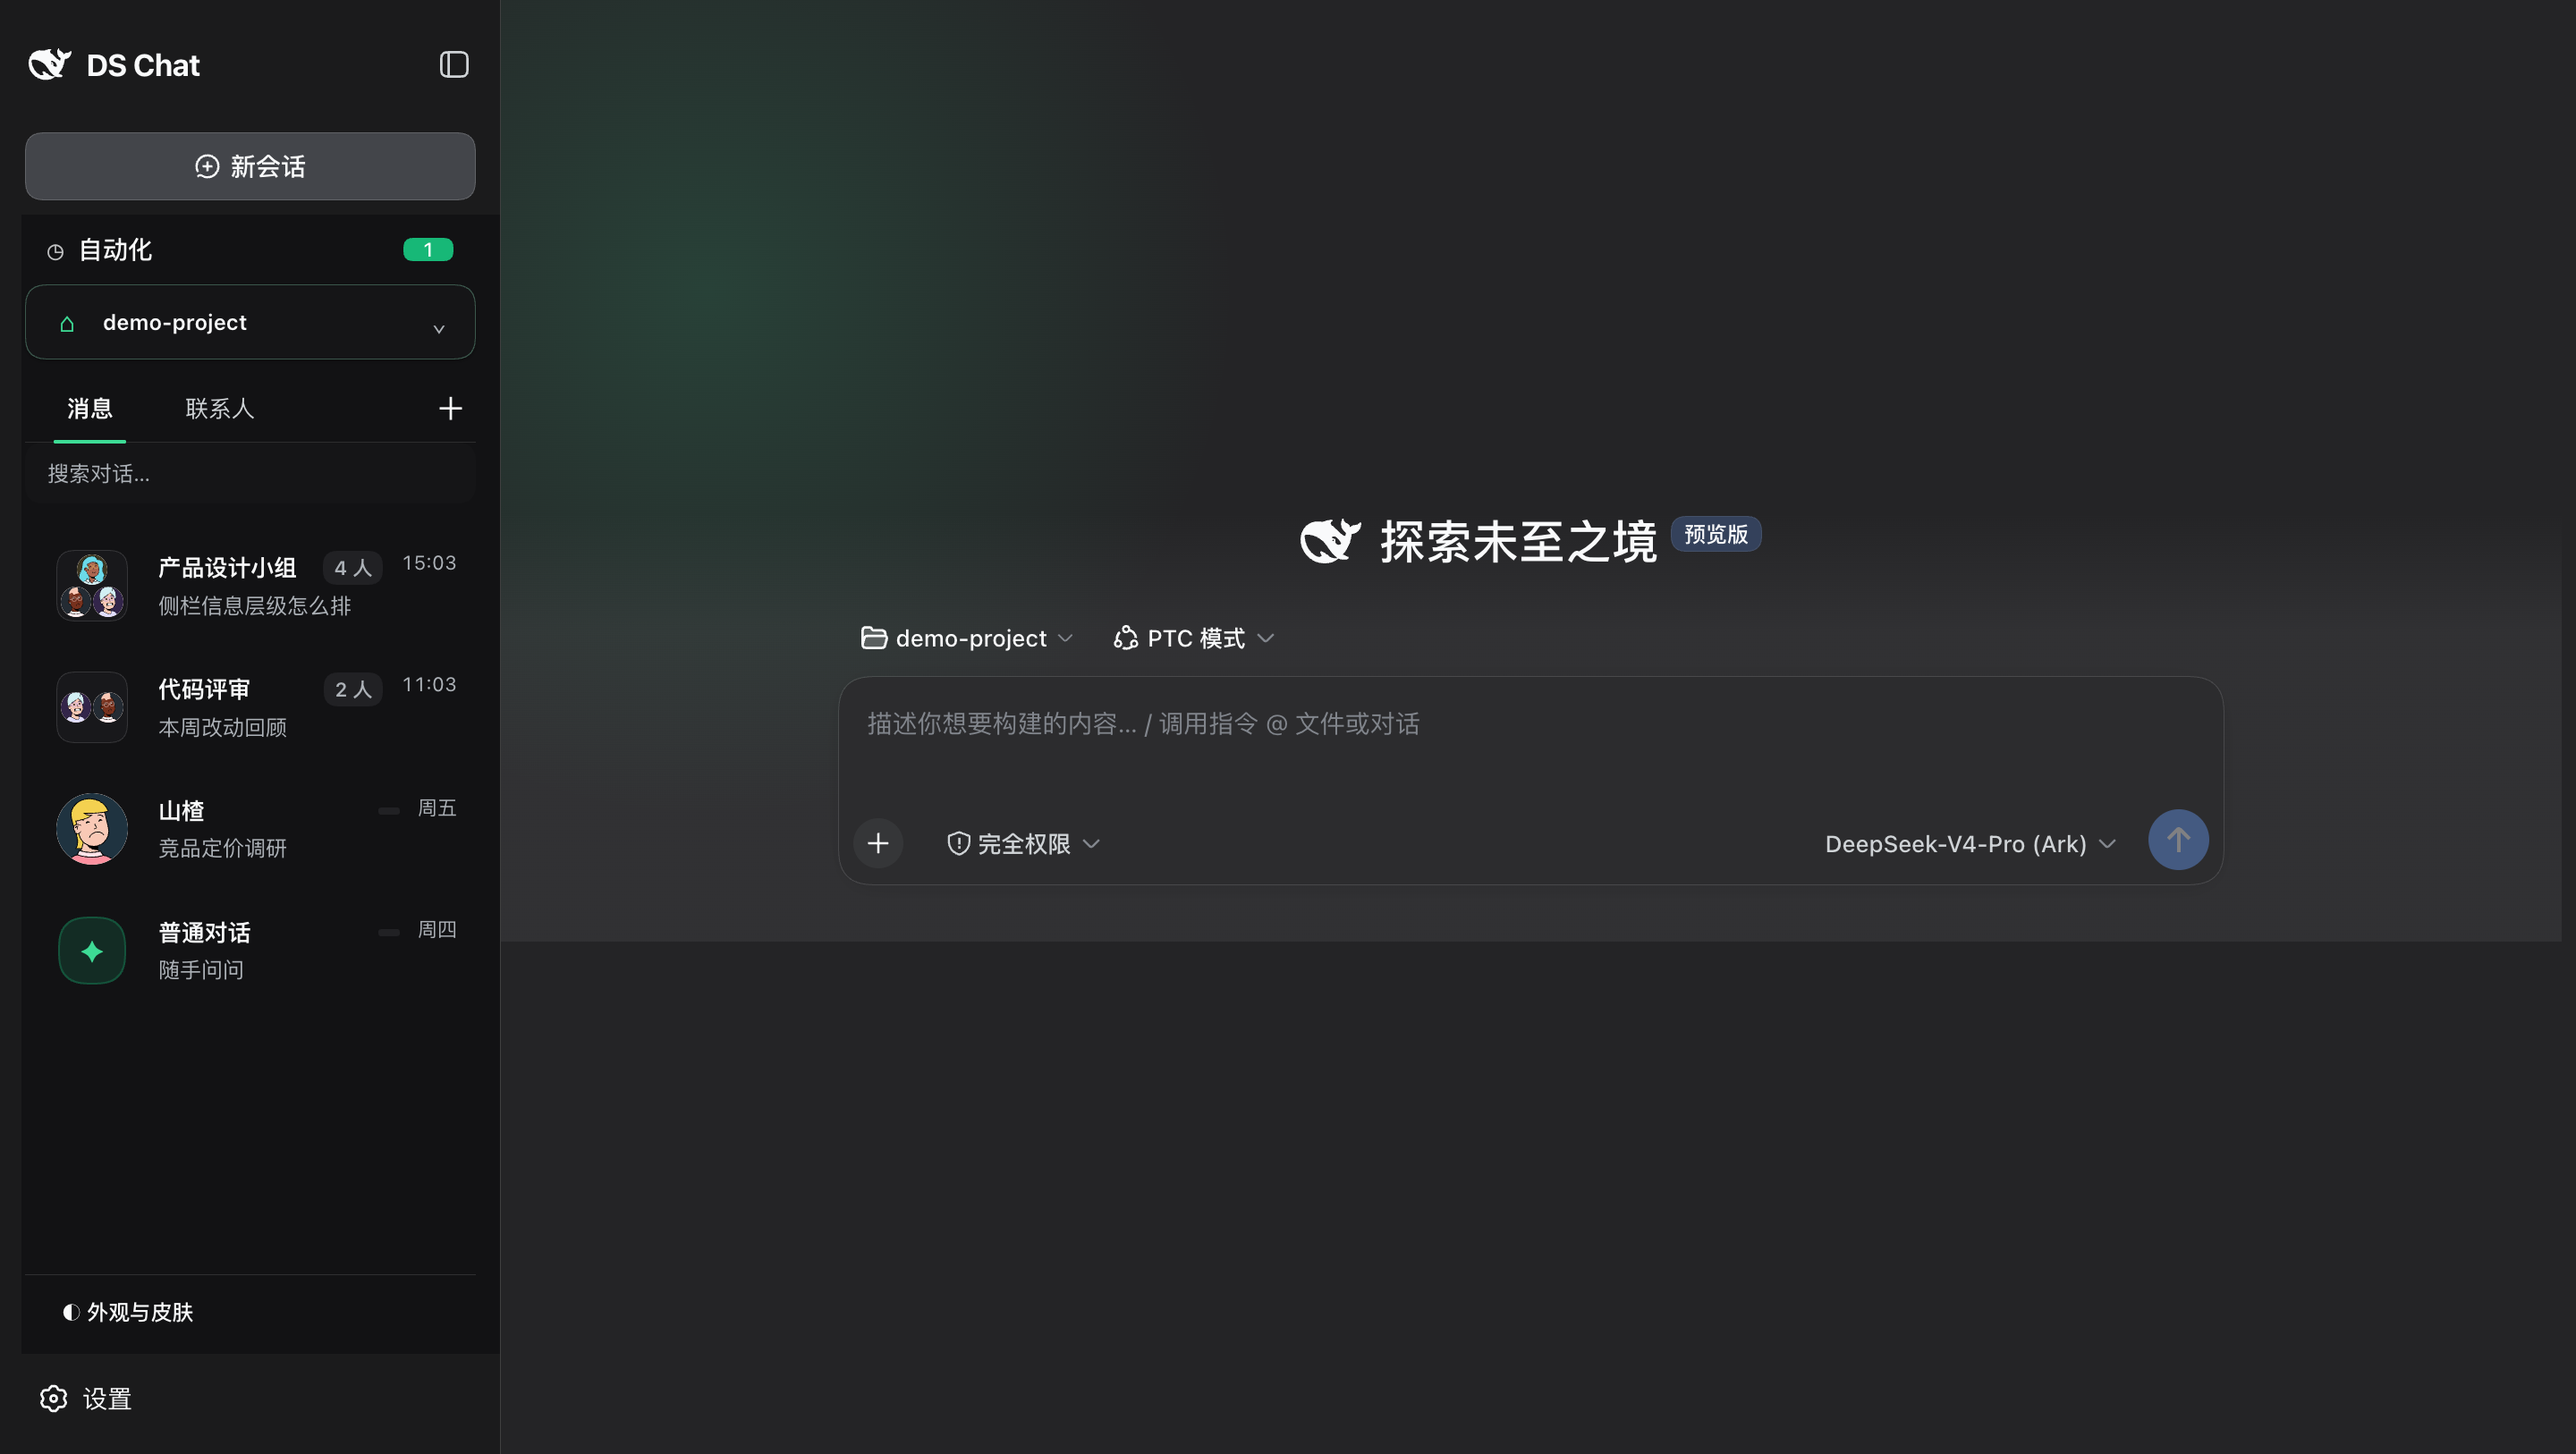
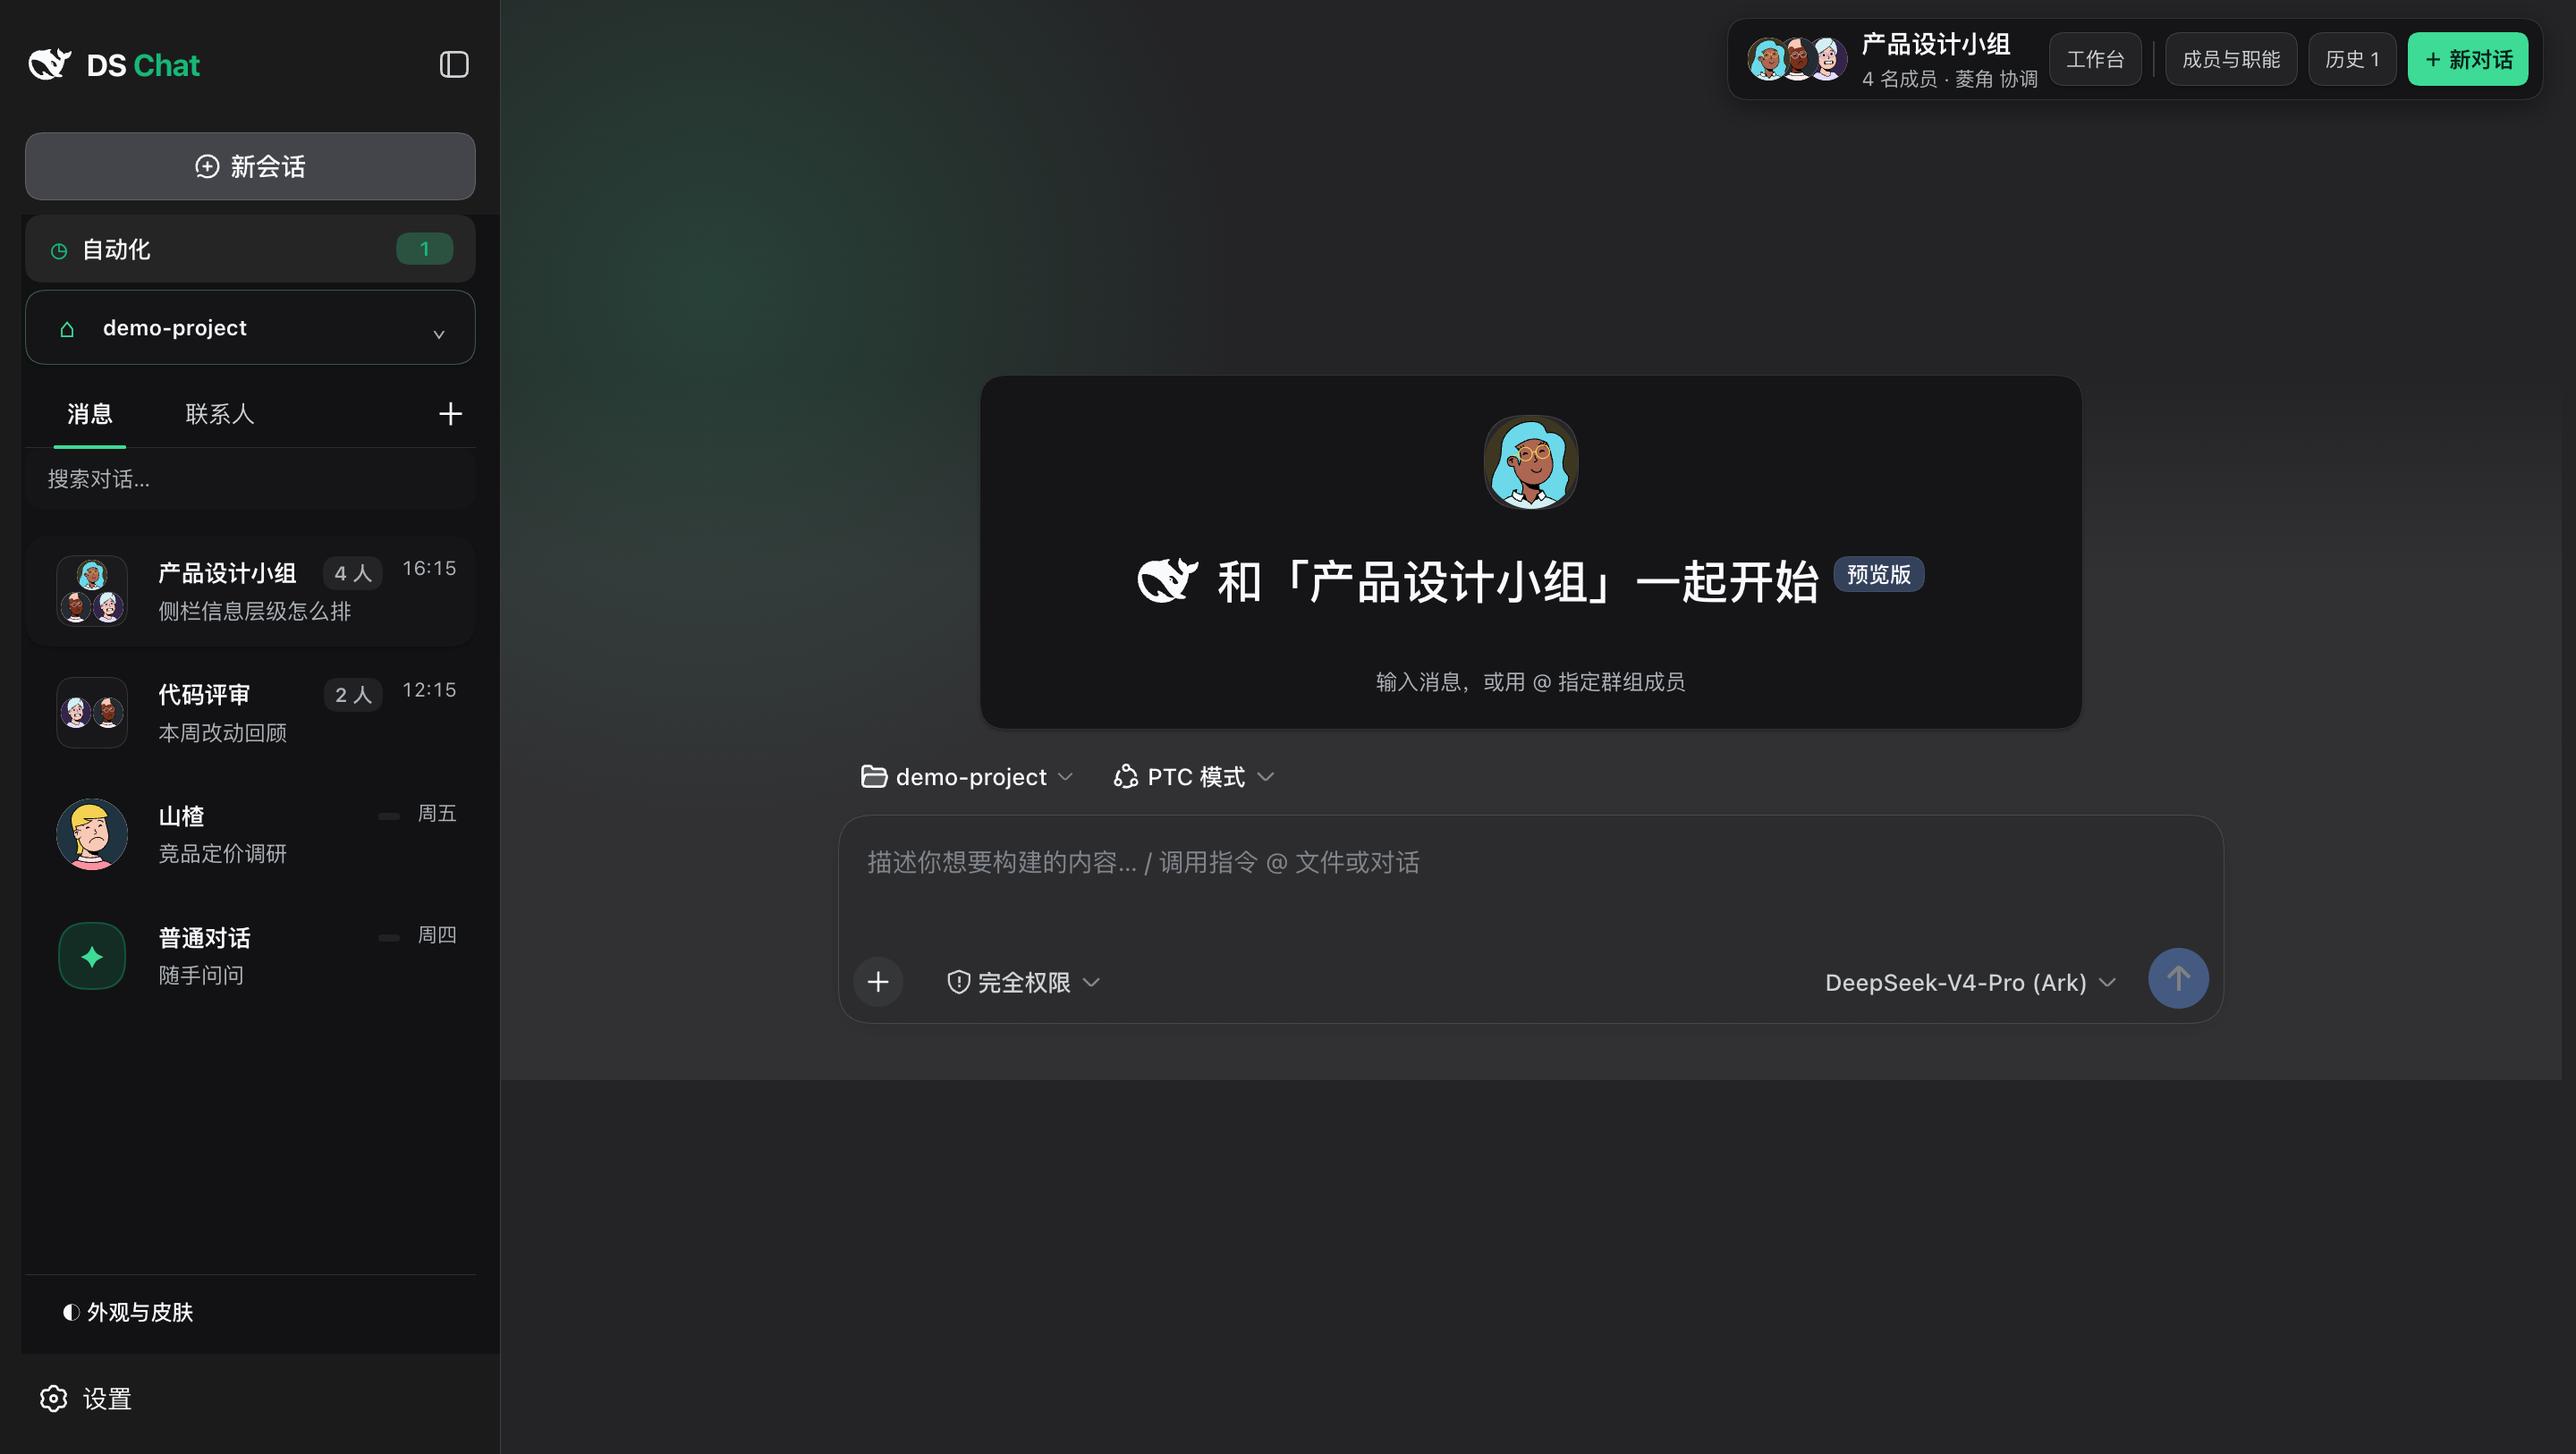
docs: README 补上成员并发与按发言人头像，刷新明暗截图

diff --git a/README.md b/README.md
@@ -57,6 +57,8 @@ name, prompt and cadence, or start from a blank one.
 | Personification | Generated portraits, deterministic friendly names, profiles and original Skill metadata |
 | Skills | Every agent tool's Skill directory in one catalog, `skills.sh` search, install and install-then-add flows |
 | Real invocation | Joining a room links the Skill into the Harness's own Skill root, so the model can actually load it |
+| Parallel members | When a task needs several members the coordinator delegates one background subagent per member, each loading that member's Skill — real concurrency, not a narrated one |
+| Per-speaker faces | Each relayed answer carries the portrait of the member who wrote it, so a group reads as a group |
 | Workspace | Project browser, file preview, terminal and sidecar task entry points |
 | Automation | A top-level destination beside the shell's own new-chat entry, scenario templates, room-bound definitions, run-now and persisted history |
 | Appearance | Mint, Teamily-inspired and always-dark Nocturne skins using the DSH Web Skin Manifest v2 contract; light and dark schemes follow the shell |

diff --git a/README.zh.md b/README.zh.md
@@ -56,6 +56,8 @@ DeepSeek Harness 提供了强大的 Agent Runtime，但默认界面更偏向 Ses
 | Skill 拟人化 | 生成式头像、稳定友好昵称、资料页和原始 Skill 元数据 |
 | Skills | 机器上所有 agent 工具的 Skill 目录汇总成一份通讯录，`skills.sh` 搜索、安装、安装并加入 |
 | 真实可调用 | 加入房间即把该 Skill 软链进宿主自己的 Skill 根目录，模型能真的加载它 |
+| 成员并发 | 一次需要多个成员时，协调者为每人各起一个后台子代理并发进行，各自加载对应 Skill——是真的并发，不是叙述出来的 |
+| 按发言人配脸 | 每段转述带上撰写它的那个成员的头像，一个群才读起来像一个群 |
 | Workspace | 项目文件浏览、文件预览、终端与旁路任务入口 |
 | 自动化 | 与外壳「新会话」并列的顶层入口，场景模板、Room 绑定、立即运行与运行历史 |
 | 外观 | 薄荷工作台、Teamily 柔光、常暗「夜航」三套皮肤，基于 DSH Skin Manifest v2；明暗配色跟随外壳 |
